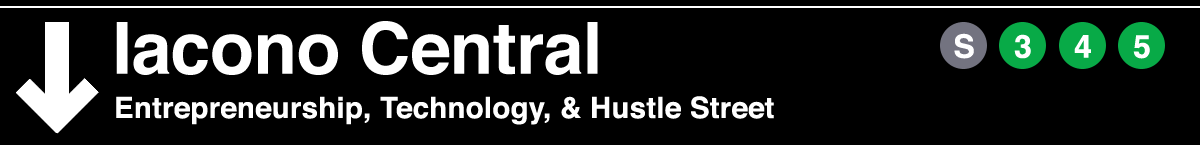
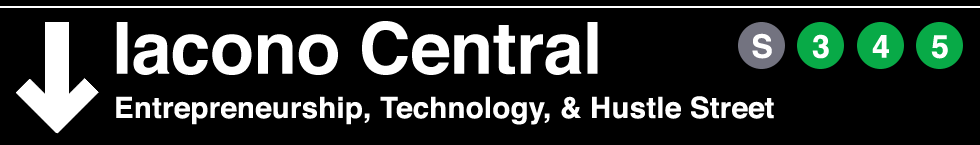
adjust default width and header image, use img plugin over image tag

Changed region(s): [[0.0, 0.1379, 0.7959, 0.9103], [0.7347, 0.1379, 1.0, 0.4966]]

diff --git a/sass/custom/_styles.scss b/sass/custom/_styles.scss
@@ -21,13 +21,13 @@ body > header {
     top: 0;
     left: 0;
     height: 145px;
-    width: 1200px;
+    width: 980px;
   }
 
   h1 {
     font-size: 2.6em;
     height: 145px;
-    width: 1200px;
+    width: 980px;
     background: url('/images/iacono-central-header.png') top left no-repeat;
   }
 
@@ -51,10 +51,6 @@ body > nav {
   ul,
   ol {
     margin-left: 25px;
-  }
-
-  img.left {
-    float: left;
   }
 }
 

diff --git a/sass/custom/_layout.scss b/sass/custom/_layout.scss
@@ -1,7 +1,7 @@
 // Here you can easily change your sites's layout.
 // To give it a try, uncomment some of the lines below, make changes, rebuild your blog, and see how it works.
 
-//$max-width: 1350px;
+$max-width: 980px;
 //$indented-lists: true;
 
 // Padding used for layout margins
